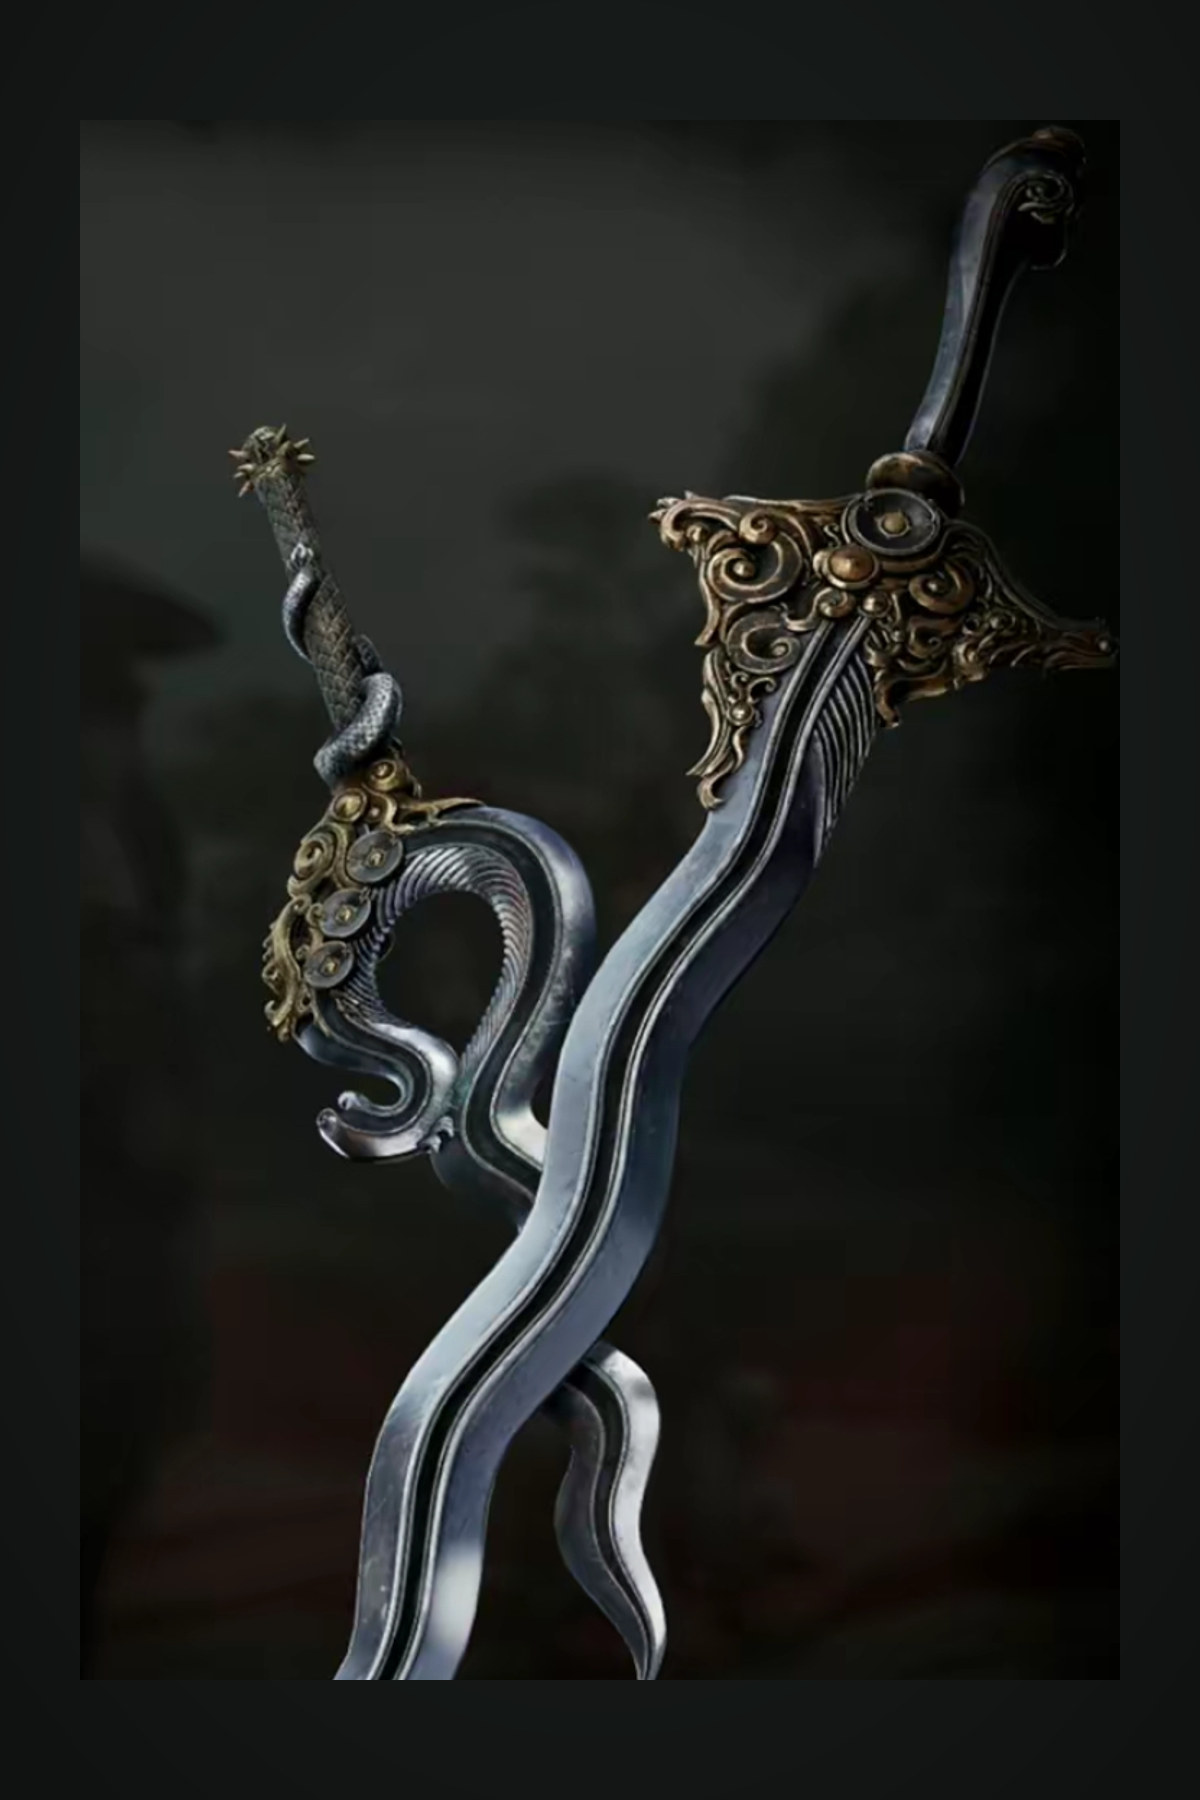
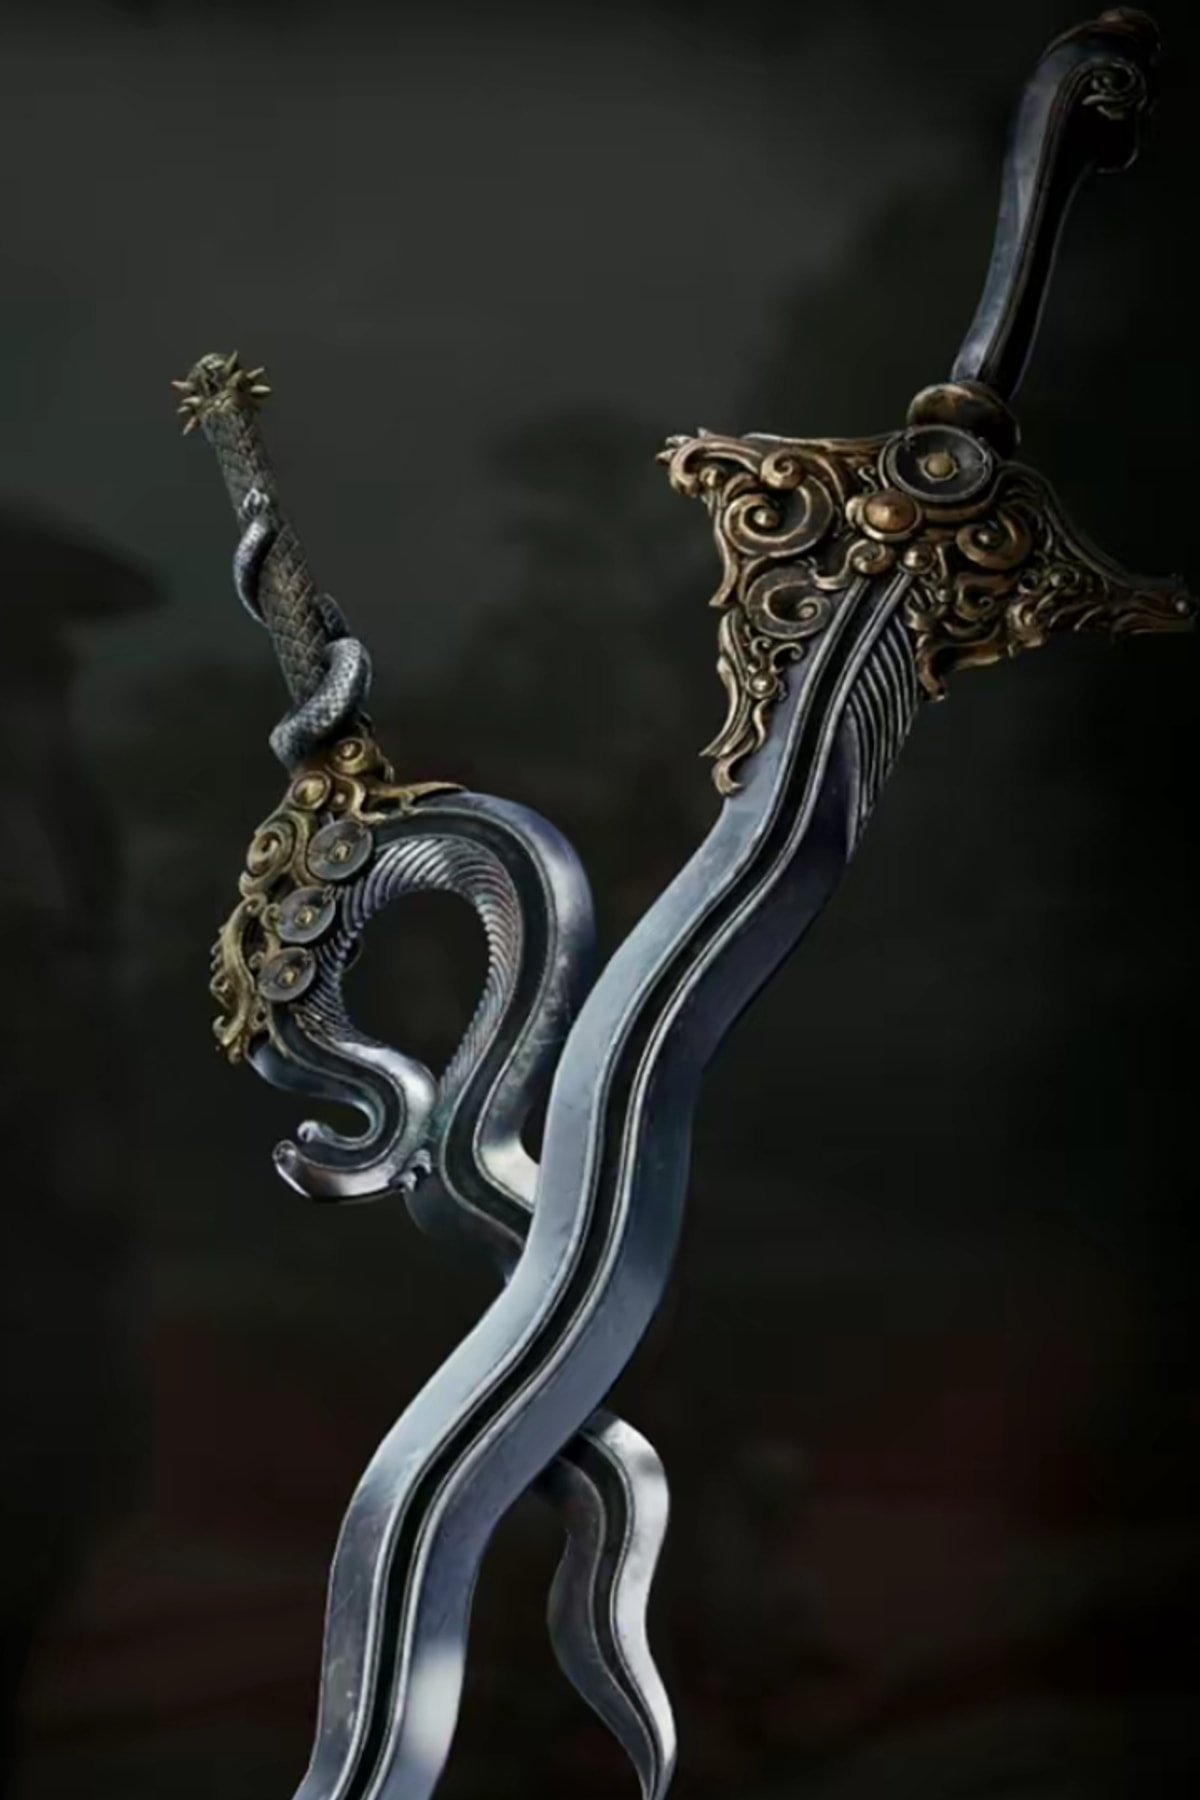
fix: remove weapon master matte framing

diff --git a/docs/MEDIA-SOURCE-POLICY.md b/docs/MEDIA-SOURCE-POLICY.md
@@ -75,10 +75,10 @@ Current production rendering implements only the singular Entity `hero` and `car
 Production-eligible Weapon Media uses one frozen Master per Weapon, rather than separate Hero and Card crops. The same local asset and singular Media record must declare both `hero` and `card`; pages render that Master with `object-fit: contain`.
 
 - Canvas is exactly **1200×1800 px** (2:3, portrait).
-- Use a dark, neutral background compatible with the site. The complete, recognizable weapon takes priority over filling the canvas.
+- A dark, neutral background does not require an artificial matte. When a reviewed clean 2:3 source crop is available, directly resize it to fill the Master canvas; the original game/environment background may serve as the Master background. Do not add a uniform surround merely to normalize presentation or create an inner-frame effect.
 - When the source permits, the visible weapon subject should occupy about 80%–90% of the canvas height. Leave about 5%–10% breathing room above and below where the source geometry permits; side margins follow the weapon shape.
 - Align by visual balance, not a mechanical bounding-box center.
-- Crop, resize, JPEG re-encoding, and non-generative compositing onto the neutral canvas are allowed. Generative fill, AI reconstruction, repainting, or inventing missing blade/tip/handle geometry are prohibited.
+- Crop, resize, JPEG re-encoding, and non-generative compositing onto the neutral canvas are allowed where a direct clean crop is unavailable and the result does not create a misleading frame. Generative fill or extension, AI reconstruction, repainting, or inventing missing blade/tip/handle geometry are prohibited.
 - Remove phone/browser chrome, game menus, skill text, button prompts, page indicators, and screenshot borders where this can be done without damaging weapon identity. Original game/environment background may remain.
 - If a source is truncated, the Master must remain truncated. It must never be made to look complete through reconstruction.
 - `provisional-official` is the current editorial lifecycle for traceable official promotional material; after release, approved self-captured replacements become `canonical-self-captured`. This is documented lifecycle vocabulary, not a new Media Schema field; a later gate may add a machine-readable field.
